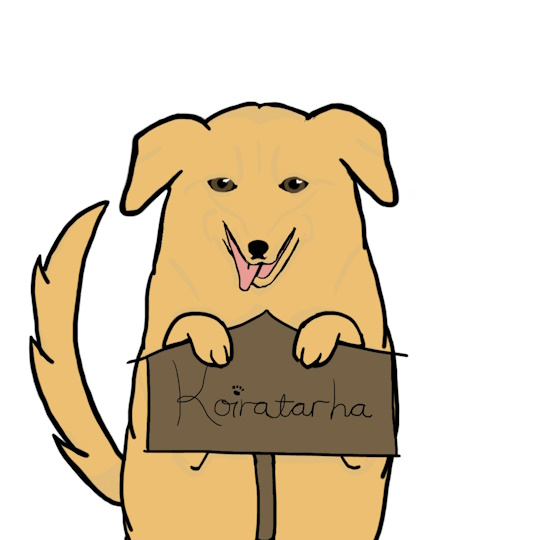
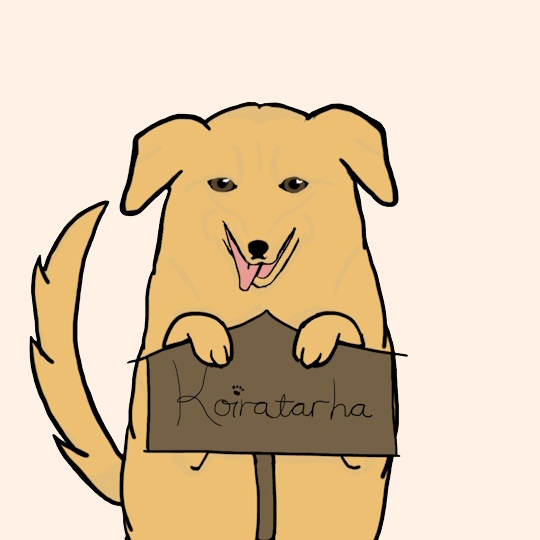
kartta on, toiminnot sille ei toimi

diff --git a/src/dogPark.html b/src/dogPark.html
@@ -4,7 +4,11 @@
     <meta charset="UTF-8">
     <meta name="viewport" content="width=device-width, initial-scale=1">
     <title>Koiratarha</title>
-    <link href="https://cdnjs.cloudflare.com/ajax/libs/leaflet/1.7.1/leaflet.css" rel="stylesheet">
+    <link rel="stylesheet" href="https://unpkg.com/leaflet@1.9.4/dist/leaflet.css" />
+    <script src="https://unpkg.com/leaflet@1.9.4/dist/leaflet.js"></script>
+    <script src="https://cdn.maptiler.com/maptiler-sdk-js/v1.1.1/maptiler-sdk.umd.js"></script>
+    <link href="https://cdn.maptiler.com/maptiler-sdk-js/v1.1.1/maptiler-sdk.css" rel="stylesheet" />
+    <script src="https://cdn.maptiler.com/leaflet-maptilersdk/v1.0.0/leaflet-maptilersdk.js"></script>
     <link href="appStyle.css" rel="stylesheet">
     <link rel="preconnect" href="https://fonts.googleapis.com/%22%3E">
     <link rel="preconnect" href="https://fonts.gstatic.com/" crossorigin>
@@ -12,10 +16,10 @@
     <link href="https://cdn.jsdelivr.net/npm/bootstrap@5.3.2/dist/css/bootstrap.min.css" rel="stylesheet" 
     integrity="sha384-T3c6CoIi6uLrA9TneNEoa7RxnatzjcDSCmG1MXxSR1GAsXEV/Dwwykc2MPK8M2HN" crossorigin="anonymous">
 </head>
-<body>
+<body id="body">
     <div class="container-fluid">
         <div class="row justify-content-center text-center">
-            <h1 class="p-2">Koiratarha</h1>
+            <h1 id="header" class="p-2">Koiratarha</h1>
             <nav id="nav">
                 <ul id="navBg" class="list-group list-group-horizontal">
                     <li id="navContentPage" class="list-group-item"><a id="navContent" href="dogPark.html">Kartat<br>
@@ -105,6 +109,17 @@
         </div>
     </footer>
 
+    <script>
+        
+      const key = 'TqnKcbzgma4gNMtHFbKU';
+      const map = L.map('map').setView([0, 0], 1);
+      const mtLayer = L.maptilerLayer({
+        apiKey: key,
+        style: L.MaptilerStyle.STREETS, // optional
+        geolocate: true //set the initial view to the user's location
+      }).addTo(map);
+    
+    </script>
     <script src="https://cdnjs.cloudflare.com/ajax/libs/leaflet/1.7.1/leaflet.js"></script>
     <script src="https://cdn.jsdelivr.net/npm/bootstrap@5.3.2/dist/js/bootstrap.bundle.min.js" 
     integrity="sha384-C6RzsynM9kWDrMNeT87bh95OGNyZPhcTNXj1NW7RuBCsyN/o0jlpcV8Qyq46cDfL" crossorigin="anonymous"></script>

diff --git a/src/gallery.html b/src/gallery.html
@@ -11,12 +11,11 @@
     <link href="https://fonts.googleapis.com/css2?family=Nunito+Sans:wght@600&family=Raleway&display=swap" rel="stylesheet">
     <link href="https://cdn.jsdelivr.net/npm/bootstrap@5.3.2/dist/css/bootstrap.min.css" rel="stylesheet" 
     integrity="sha384-T3c6CoIi6uLrA9TneNEoa7RxnatzjcDSCmG1MXxSR1GAsXEV/Dwwykc2MPK8M2HN" crossorigin="anonymous">
-
 </head>
-<body>
+<body id="body">
     <div class="container-fluid">
         <div class="row justify-content-center text-center">
-            <h1 class="p-2">Koiratarha</h1>
+            <h1 id="header" class="p-2">Koiratarha</h1>
             <nav id="nav">
                 <ul id="navBg" class="list-group list-group-horizontal">
                     <li id="navContentPage" class="list-group-item"><a id="navContent" href="dogPark.html">Kartat<br>
@@ -36,7 +35,7 @@
 
     <div id="pics" class="container text-center">
         <div class="row p-3">
-            <h2>Galleria</h2>
+            <h2 id="header2">Galleria</h2>
 
             <div class="row mx-auto">
                 <a class="lightbox-link" href="images/img/Kuu-koirapuisto2.jpg" data-lightbox="image-1" data-title="1) Kuun ensimmäinen koirapuisto">

diff --git a/src/index.html b/src/index.html
@@ -11,10 +11,10 @@
     <link href="https://cdn.jsdelivr.net/npm/bootstrap@5.3.2/dist/css/bootstrap.min.css" rel="stylesheet" 
     integrity="sha384-T3c6CoIi6uLrA9TneNEoa7RxnatzjcDSCmG1MXxSR1GAsXEV/Dwwykc2MPK8M2HN" crossorigin="anonymous">
 </head>
-<body>
+<body id="body">
     <div class="container-fluid">
         <div class="row justify-content-center text-center">
-            <h1 class="p-2">Koiratarha</h1>
+            <h1 id="header" class="p-2">Koiratarha</h1>
             <nav id="nav">
                 <ul id="navBg" class="list-group list-group-horizontal">
                     <li id="navContentBg" class="list-group-item"><a id="navContent" href="accCreation.html">Luo käyttäjä<br>

diff --git a/src/editAcc.html b/src/editAcc.html
@@ -12,10 +12,10 @@
     integrity="sha384-T3c6CoIi6uLrA9TneNEoa7RxnatzjcDSCmG1MXxSR1GAsXEV/Dwwykc2MPK8M2HN" crossorigin="anonymous">
 
 </head>
-<body>
+<body id="body">
     <div class="container-fluid">
         <div class="row justify-content-center text-center">
-            <h1 class="p-2">Koiratarha</h1>
+            <h1 id="header" class="p-2">Koiratarha</h1>
             <nav id="nav">
                 <ul id="navBg" class="list-group list-group-horizontal">
                     <li id="navContentPage" class="list-group-item"><a id="navContent" href="dogPark.html">Kartat<br>

diff --git a/src/editAccAdmin.html b/src/editAccAdmin.html
@@ -12,10 +12,10 @@
     integrity="sha384-T3c6CoIi6uLrA9TneNEoa7RxnatzjcDSCmG1MXxSR1GAsXEV/Dwwykc2MPK8M2HN" crossorigin="anonymous">
 
 </head>
-<body>
+<body id="body">
     <div class="container-fluid">
         <div class="row justify-content-center text-center">
-            <h1 class="p-2">Koiratarha</h1>
+            <h1 id="header" class="p-2">Koiratarha</h1>
             <nav id="nav">
                 <ul id="navBg" class="list-group list-group-horizontal">
                     <li id="navContentPage" class="list-group-item"><a id="navContent" href="dogPark.html">Kartat<br>

diff --git a/src/accCreation.html b/src/accCreation.html
@@ -12,10 +12,10 @@
     integrity="sha384-T3c6CoIi6uLrA9TneNEoa7RxnatzjcDSCmG1MXxSR1GAsXEV/Dwwykc2MPK8M2HN" crossorigin="anonymous">
 
 </head>
-<body>
+<body id="body">
     <div class="container-fluid">
         <div class="row justify-content-center text-center">
-            <h1 class="p-2">Koiratarha</h1>
+            <h1 id="header" class="p-2">Koiratarha</h1>
             <div id="userContent">
                 <div class="row p-4">
                     <p>Käyttäjätunnus:</p>

diff --git a/src/login.html b/src/login.html
@@ -12,10 +12,10 @@
     integrity="sha384-T3c6CoIi6uLrA9TneNEoa7RxnatzjcDSCmG1MXxSR1GAsXEV/Dwwykc2MPK8M2HN" crossorigin="anonymous">
 
 </head>
-<body>
+<body id="body">
     <div class="container-fluid">
         <div class="row justify-content-center text-center">
-            <h1 class="p-2">Koiratarha</h1>
+            <h1 id="header" class="p-2">Koiratarha</h1>
             <div id="userContent">
                 <div class="row p-4">
                     <p>Käyttäjätunnus:</p>

diff --git a/src/appStyle.css b/src/appStyle.css
@@ -20,17 +20,17 @@
     border-radius: 20px;
 }
 
-h1 {
+#header {
     font-family: 'Nunito Sans', sans-serif;
     font-size: 40px;
 }
 
-h2 {
+#header2 {
     font-family: 'Nunito Sans', sans-serif;
     font-size: 30px;
 }
 
-body {
+#body {
     background: #FFF1E6;
     text-align: center;
     font-family: 'Raleway', sans-serif;
